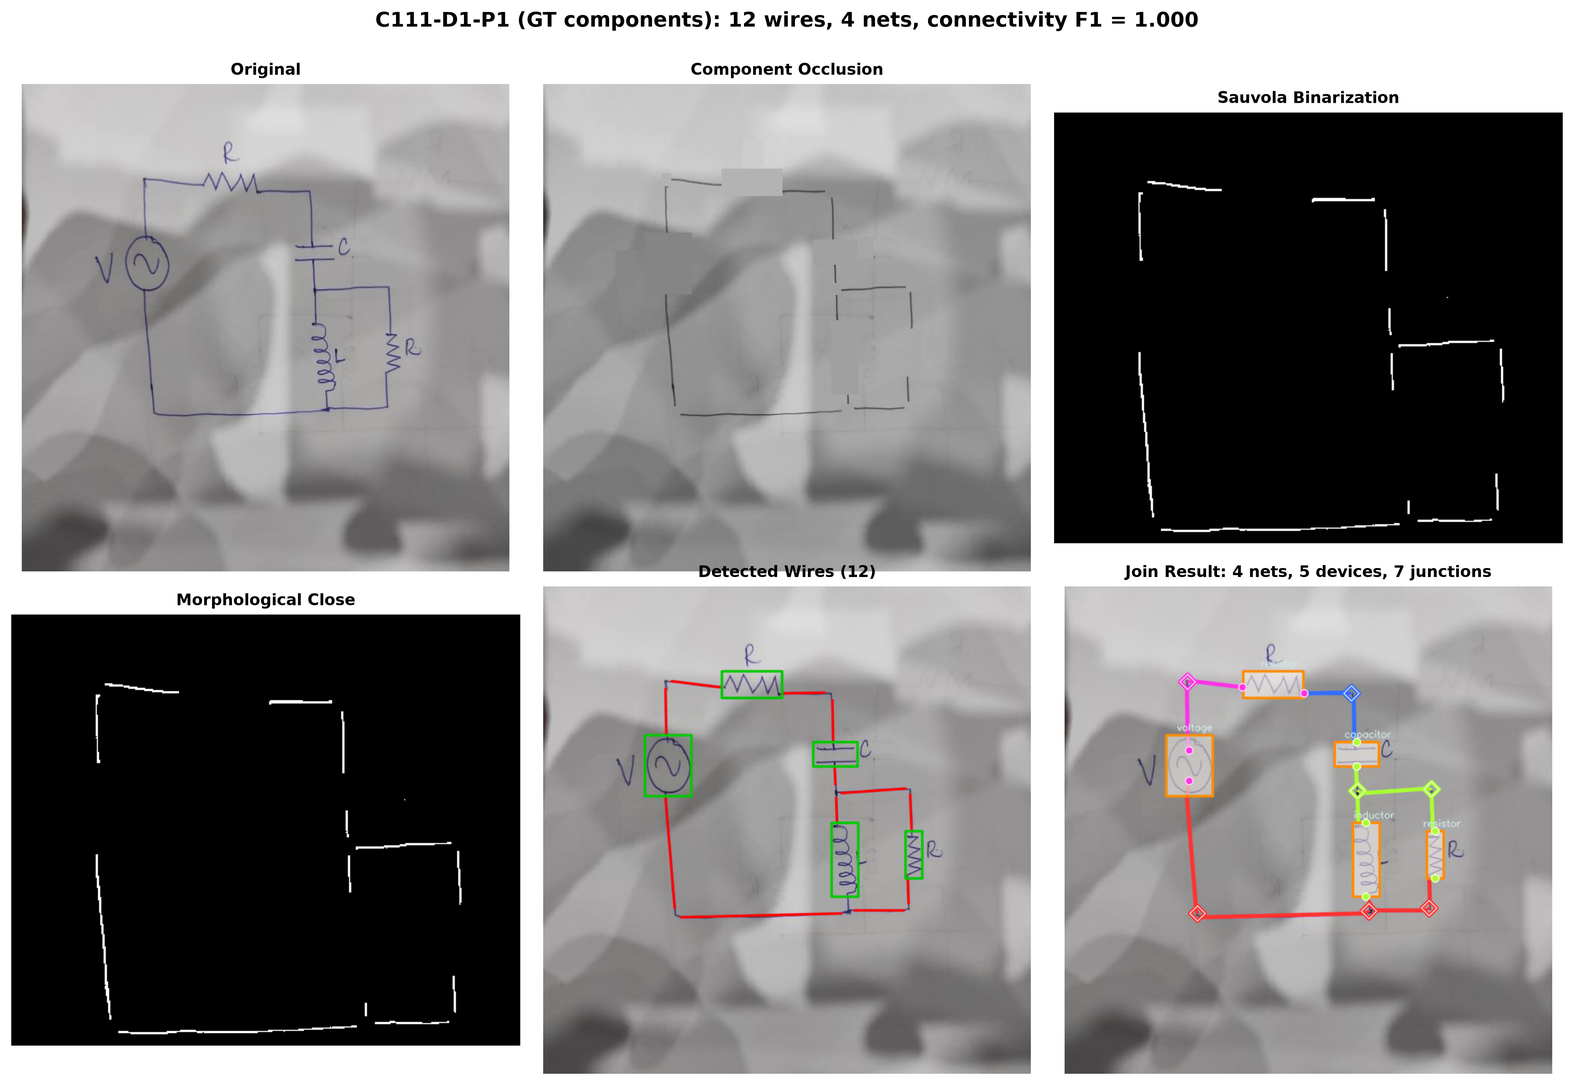
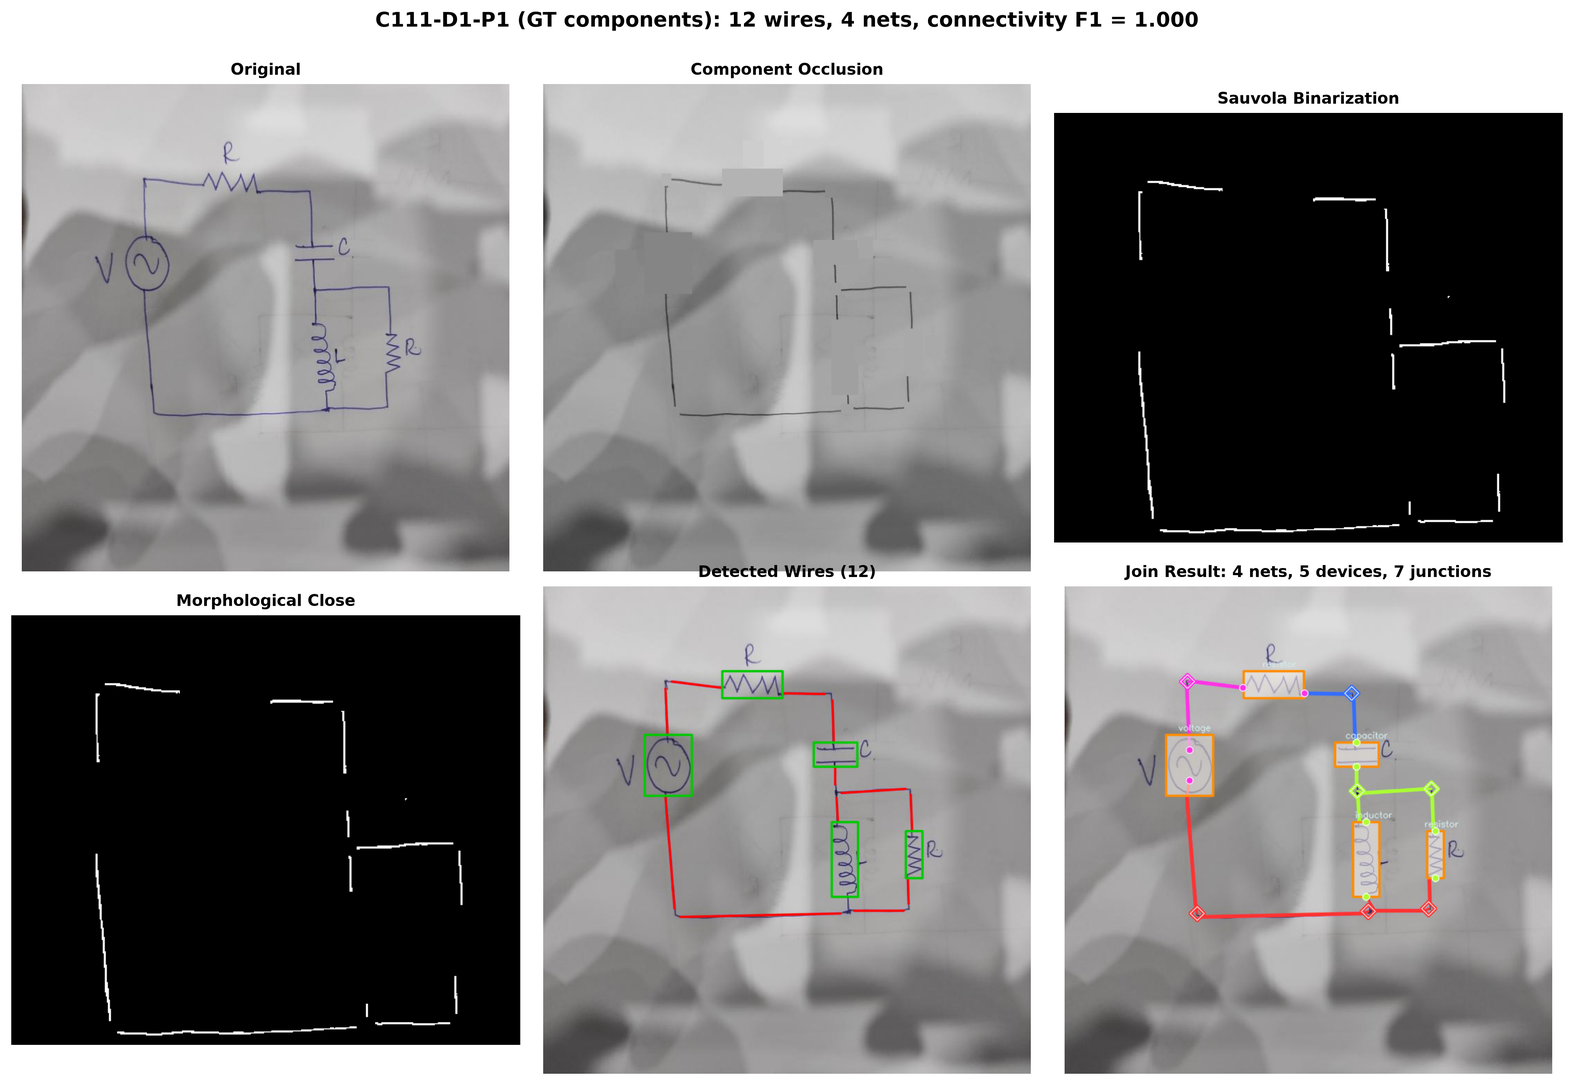
docs: regen Fig2 panels from GT components, fix R2-3 chart note, archive stale -v2 drafts
- C37 panel 36->35 wires (matches verified GT + caption); C111 refreshed
- R2-3: wire chart verified fresh at 0.845/0.758 (0.795 was phantom)
- archive -v2 drafts carrying banned SPICE title (shipping hazard)

diff --git a/paper/ieee-paper/review_artifacts/REVIEWER_STATUS_REPORT.md b/paper/ieee-paper/review_artifacts/REVIEWER_STATUS_REPORT.md
@@ -1,24 +1,42 @@
-> 12 comments, one-shot resubmission. One row per comment: what was asked, what changed, and what is still open. Manuscript sources: paper-access.tex (A) and paper-build.tex (B), kept in sync. Work line: main.
+> How to read this table.
+>
+> - Asked quotes the reviewer's comment in full.
+> - Action taken is numbered in every row: 1 is what changed in the manuscript, 2 is why this move maximizes one-shot odds, 3 is the alternative we deliberately did not take and why it would lower odds.
+> - Remaining is color-coded: green Nothing means no further action, amber means an owner or template action is still needed, red means blocked on the PDF rebuild.
+
+12 comments, one-shot resubmission. Manuscript sources: paper-access.tex (A) and paper-build.tex (B), kept in sync. Work line: main.
 
 ## All comments in one table
 
-| Comment | Asked | Done | Remaining |
+| Comment | Asked | Action taken | Remaining |
 |---|---|---|---|
-| R1-1 single collection, 31 images | Single dataset (CGHD-1152) and only 31 human-verified images; confidence intervals are wide; this cannot establish universal adaptation across drawing styles. | Results labeled as within-collection only. Drafter groups presented descriptively (16 direct and 15 inferred assignments disclosed, per-drafter table included): different hands give some style variation, but same corpus, so no universal-adaptation claim and no held-out-drafter experiment. Residual label bias disclosed as mitigated but not eliminated, with independently authored synthetic data as the second leg; future expansion described as future work. | Owner read-through. RE-VERIFY: 34-annotated to 31-scored accounting plus the 16-direct/15-inferred drafter chain (Bosco). |
-| R1-2 complex parts | Complex devices (transformers, thyristors, optocouplers) are located but their pin relationships are not extracted, limiting supported components. | New capability table separating tested connectivity, estimated pins, and illustrative export, with a metric-boundary row; switch behavior stated exactly as the code does it (midpoint pins, conditional 0.001-ohm emission). | Owner read-through |
-| R1-3 hand-set thresholds | Scale-relative thresholds are manually tuned from median component diagonal; without adaptive learning, accuracy may decline for extreme sizes. | All values stated plainly (alpha 0.35 fallback-only with formula, multipliers 0.62/0.30/0.20, clamps, 4x reach, macro sweep 0.895-0.903); untested extremes admitted. | Nothing |
-| R1-4 no values, can't simulate | No OCR/value-recognition loop; the output is topological rather than a complete simulatable SPICE netlist. | Scope stated in abstract, intro, and conclusion; retitled including heads and diagram; export labeled illustrative throughout, external values required. | Nothing |
-| R1-5 small circuits only | The sample is allegedly dominated by 3-6-component circuits and lacks dense buses/multi-layer crossings; recall may drop on complex circuits. | Limits stated; true distribution printed in the caption (15 at most 5, 12 at least 10, median 7, range 3-14); nothing claimed beyond it. | Nothing |
-| R1-6 memristor citations | Suggested citing two memristive SPICE-circuit papers (classical-conditioning neural circuit; decision-making circuit for navigation) in the SPICE-simulation sections. | Both checked and cited in Related Work with full references (IEEE Trans. Consumer Electronics, Feb 2026; IEEE Trans. Industrial Informatics, vol. 22). | Template check |
-| R2-1 statistics, roadmap | N=31 is statistically small. Clarify annotation cost and provide a dataset-expansion roadmap, or add rigorous statistical support; make conclusions conservative if this is the available data. | Sampling in four strata with independent annotation and adjudication described; roadmap added; missing timing honestly noted. | Owner read-through |
-| R2-2 VLM comparison | VLM comparison has an oracle advantage because it receives ground-truth component boxes while the geometric pipeline supposedly bears detection errors. The comparison does not support a claim that geometry is superior in cost/structural validity under those conditions. | Labeled as a diagnostic with identical annotated inputs (21/31 exact on both sides); no equivalence or cost claims. | Nothing |
-| R2-3 title overclaims | Title says SPICE netlists while the paper says it does not read component values; reframe as topological netlist or correct the scope. | Retitled everywhere, including running heads and the pipeline diagram; metric boundary stated. | PDF rebuild |
-| R2-4 crossing wires | Analyze the 70.7% crossover recall: missed crossover detection can merge electrically independent wires. | Measured tradeoff reported in full (27/4/0 goes to 19/0/8, stored artifact kept); removing edges also removes true connections, so no gain claimed; detector-miss part honestly marked unmeasured. | Nothing possible |
-| R2-5 ablations | Ablation study is severely insufficient. | Real table as observed, including fixed-pixel base 0.820 vs scale-relative 0.816 and full-pipeline ties at 0.890 presented as-is without spin; missing full-occlusion and scale tests disclosed. | Nothing provable |
-| R2-6 single-scalar limit | Discuss the limitation of one scalar tau = k×s when component sizes vary within one schematic. | Kept as-is; no change needed. | Nothing |
+| R1-1 single collection, 31 images | Single dataset source and an extremely small manually verified benchmark: All experiments are carried out on the CGHD-1152 dataset only. The self-built human-verified benchmark merely contains 31 images with wide confidence intervals and insufficient coverage of sample distributions, which cannot prove that the proposed method can be universally adapted to various hand-drawing styles. | **1. Action taken:** results labeled as within-collection only. Drafter groups presented descriptively (**16 direct and 15 inferred** assignments disclosed, per-drafter table included): different hands give some style variation, but same corpus, so no universal-adaptation claim and no held-out-drafter experiment. Residual label bias disclosed as mitigated but not eliminated, with independently authored synthetic data as the second leg; future expansion described as future work. **34-annotated to 31-scored** construction disclosed with exclusion reasons; join micro-F1 **0.890** with the 95 percent bootstrap interval stated outright.<br><br>**2. Why:** N=31 cannot support a universal claim, and pretending otherwise fails verification. Honest bounding plus the synthetic second leg preserves credibility.<br><br>**3. Alternative rejected:** rushed expansion to 100-plus images, or a held-out-drafter experiment on tiny partly-inferred cells. Would produce noisy labels, risk missing the freeze, and read as tuned to the test set. Low-quality new data lowers odds more than clean disclosure. | <span class="st-warn">Owner read-through. RE-VERIFY: 34-annotated to 31-scored accounting plus the 16-direct/15-inferred drafter chain (Bosco).</span> |
+| R1-2 complex parts | The algorithm only supports basic passive and active discrete components: Complex components such as transformers, thyristors and optocouplers can only be located, while their pin connection relationships cannot be extracted, limiting the range of component types supported by netlist generation. | **1. Action taken:** new capability table separating three things the old text blurred together:<br>• tested connectivity<br>• estimated pins<br>• illustrative export<br>plus a metric-boundary row. Benchmark scope (R/C/L/D/Q plus voltage-source and IC groups) stated without validating universal device templates; named transformer type two-pin geometric guess, optocoupler templates, and unknown-type fallback pins disclosed without validated electrical pin semantics. Switch behavior stated exactly as the code does it: shorter OBB-edge midpoint pins with long-axis AABB fallback, fixed **0.001-ohm** emission only if pins 0 and 1 map to distinct nodes, otherwise no switch line, no state or control model; ICs and listed complex devices with no export model skipped. Output and evaluation scope clarified in abstract, pipeline overview, metric definition, and conclusion.<br><br>**2. Why:** the detector merges original classes, so templates cannot establish separately detected device identities, and there is no ground truth to score complex-device pins. Exact code-truth wording replaces a blanket exclusion with something checkable.<br><br>**3. Alternative rejected:** implement full pin extraction for transformers, thyristors, and optocouplers in this revision. Unverifiable new capability with no evaluation data increases false-claim risk and would be caught on verification. | <span class="st-warn">Owner read-through.</span> |
+| R1-3 hand-set thresholds | Reliance on manual tuning of fixed scale-relative thresholds: Hyperparameters including τ_join, τ_t and α need to be manually configured according to the median diagonal length of circuit components. Without an adaptive parameter learning mechanism, the detection accuracy tends to decline when processing circuits of extreme sizes. | **1. Action taken:** all values published plainly:<br>• multipliers **0.62/0.30/0.20** times component scale, clamped to 24-60/11-28/8-20 pixels<br>• alpha **0.35** fallback-only directional scoring with formula, used only when no component is assigned<br>• completion reach **4x** the clamped pin scale<br>Existing reach-factor sweep 3 to 5 yielding macro-F1 **0.895-0.903** reported; fixed-pixel base **0.820** versus scale-relative **0.816** kept as observed; method descriptions rewritten from the implementation; extreme sizes and controlled rescaling admitted as untested.<br><br>**2. Why:** adaptive parameter learning is a new research contribution, not a revision task, and cannot be validated on N=31 without looking tuned to the test set. Publishing the numbers plus the existing sweep bounds the claim with data already in hand.<br><br>**3. Alternative rejected:** build an auto-tuner or claim robustness to extremes. A rushed learner risks inconsistency with the frozen 192/192 numeric gate and invites questions it cannot answer. | <span class="st-ok">Nothing.</span> |
+| R1-4 no values, cannot simulate | Lack of a closed-loop framework for component value recognition: The pipeline only reconstructs topological connections of circuits without integrating OCR to identify parameters of resistors, capacitors and voltage sources, so it cannot directly export complete simulation netlists that can be imported into SPICE. | **1. Action taken:** scope stated in abstract, intro, and conclusion; retitled to **Structural Circuit Netlists** including running heads and pipeline diagram node text; export labeled illustrative throughout, with external values and device models required and real-scan simulation equivalence unvalidated; related-work LTspice-validation implication on real scans removed; export substitutions and unsupported primitives disclosed.<br><br>**2. Why:** image-derived values and device models are outside the evaluated task. Keeping a simulatable-SPICE claim while reading no values is a false claim and an editor-level defect.<br><br>**3. Alternative rejected:** rush an OCR-plus-values loop to earn the old title. Low-quality OCR adds a new error source with no validation, and expands scope instead of fixing the discrepancy. | <span class="st-ok">Nothing.</span> |
+| R1-5 small circuits only | Inability to handle complex circuits with multi-layer crossings and dense buses: The test samples adopted in this paper are dominated by simple topologies with 3 to 6 components. No dedicated verification is conducted for circuits with high-density multi-track buses and multi-layer crossed wiring, leading to a significant drop in recall on complex circuits. | **1. Action taken:** limits stated; true distribution printed in the caption (**3-14** components per image in the evaluated electrical subset, median **7**; 15 images at most five, 12 at least ten); dense buses and multilayer crossings stated as untested with nothing claimed beyond the data; crossover discussion narrowed; histogram asset preserved.<br><br>**2. Why:** the actual counts refute the 3-6-only premise, but count breadth does not validate buses or multilayer crossings. Descriptive counts plus an explicit boundary close the point honestly.<br><br>**3. Alternative rejected:** claim dense-bus support, or run an unplanned dense-bus evaluation with no data. No ground truth exists for that structure in the benchmark. | <span class="st-ok">Nothing.</span> |
+| R1-6 memristor citations | It is suggested that the authors cite two papers in the sections related to SPICE simulation of memristive analog circuits: "A Memristor-Based Neural Network Circuit with Classical Conditioning and Fear Generalization" and "Biologically Plausible Memristive Decision-Making Circuit for Adaptive Control in Industrial Autonomous Navigation". Both papers complete full SPICE netlist modeling and simulation verification for memristive circuits, which complement the EDA technical route of converting hand-drawn schematics to SPICE netlists proposed in this paper in application scenarios, and can enrich relevant literature support for digital parsing and simulation deployment of analog memristive circuits. | **1. Action taken:** both papers checked at abstract level and cited in Related Work with full references (Gao et al., IEEE Trans. Consumer Electronics, Feb 2026; Gao et al., IEEE Trans. Industrial Informatics, vol. 22, 2026) as neighboring SPICE-deployment domains; no comparison or benchmark claim altered.<br><br>**2. Why:** straightforward compliance at near-zero cost.<br><br>**3. Alternative rejected:** argue relevance decline to keep the related work tight. Contesting a citation suggestion wastes goodwill for zero gain in a one-shot review. | <span class="st-warn">Template check.</span> |
+| R2-1 statistics, roadmap | The scale of the human-verified benchmark is insufficient, casting doubt on the statistical reliability of the conclusions. The evaluation in this paper covers only 31 images. The authors should explicitly clarify the annotation cost and provide a roadmap for dataset expansion, or alternatively supply additional support through more rigorous statistical testing. If 31 images represent the entirety of currently available data, the wording of the conclusions should be made considerably more conservative. | **1. Action taken:** sampling in four strata with independent annotation and adjudication described; expansion protocol added as future work (stratified by component count, drafter, crossing/bus structure, and capture conditions, with per-image effort and provenance logging); missing timing honestly noted (single annotator, no per-image timing log, so no cost figure invented and no sample-size commitments); conclusions limited to 31 images from one corpus with bootstrap intervals retained; a CI containing zero stated as nonsignificance, not equivalence.<br><br>**2. Why:** conservative conclusions on the available data are exactly the fallback the reviewer offered.<br><br>**3. Alternative rejected:** invent per-image timing or promise a completed expansion. Fabricated cost data and false completion claims are the fastest way to lose editor trust. | <span class="st-warn">Owner read-through.</span> |
+| R2-2 VLM comparison | There is a fundamental fairness issue in the VLM comparison experiment. The VLM enjoys an "oracle advantage" with respect to critical prior information, whereas the geometric pipeline must bear the burden of detection errors. In the paper, the VLM is provided with ground-truth annotated component bounding boxes; under such conditions, the fact that the VLM still shows no statistically significant difference from the geometric method does not sufficiently support the conclusion that "the geometric method is superior in terms of cost and structural validity." | **1. Action taken:** relabeled as an oracle-component-box connectivity diagnostic with identical annotated inputs to both methods (geometric method uses detected wires); VLM micro-F1 **0.923** versus **0.890** with exact scores on **21/31** reported; paired difference **+0.033** with 95 percent CI **[-0.009, +0.078]**, inclusion of zero stated as nonsignificance rather than equivalence. Removed from the manuscript:<br>• cost multiples and superiority claims<br>• free-form-output criticism<br>• autonomous bottleneck claims<br>• global structural guarantees<br>• the provisional autonomous paragraph (unauditable provenance)<br>VLM section, intro comparison, abstract, real-join caption, discussion, and conclusion revised.<br><br>**2. Why:** the reviewer correctly identified the asymmetry. Keeping any superiority or cost claim under oracle conditions guarantees rejection.<br><br>**3. Alternative rejected:** keep the superiority framing, or run a new end-to-end VLM comparison with unauditable provenance. Both preserve the exact sentence the reviewer flagged. | <span class="st-ok">Nothing.</span> |
+| R2-3 title overclaims | The paper title claims to generate SPICE netlists, yet the paper explicitly acknowledges that it "makes no attempt to read component values." This implies that the current system outputs a topological netlist rather than a simulatable SPICE netlist, which constitutes a notable discrepancy with the claims made in both the title and the abstract. | **1. Action taken:** retitled everywhere to **Structural Circuit Netlists**, including both running-head arguments in both manuscript sources and the pipeline diagram node text; metric boundary added across abstract, intro, pipeline overview, metric definition, capability table, and conclusion (component-pair metric does not certify pins, net partition, shorts, or simulation equivalence).<br><br>**2. Why:** title-body mismatch is the defect editors check first. Fixing it everywhere removes the objection instead of arguing it.<br><br>**3. Alternative rejected:** keep the SPICE title as conventional shorthand. That concedes the factual premise and would certainly fail. | <span class="st-block">PDF rebuild (Access pipeline figure PDF still extracts the old SPICE Netlist text while the TikZ source is corrected; wire benchmark chart verified fresh at 0.845/0.758 (Gaussian/Triangle skeleton configs)).</span> |
+| R2-4 crossing wires | The impact of low recall in a critical component category on netlist correctness has not been sufficiently analyzed. The recall of the crossover class in component detection is only 70.7%, substantially lower than that of other categories. Misclassification of crossovers will introduce systematic errors in electrical connectivity, causing two wire segments that should remain electrically independent to be erroneously merged into the same net. | **1. Action taken:** full two-edge tradeoff reported (C242 suppressing two crossing-adjacent endpoint-endpoint edges: **27/4/0 to 19/0/8** — removing four false pairs loses eight true pairs, so no mitigation gain claimed); audit covers **13 annotated crossovers** across eight images with the stored artifact kept; single-edge, rarity, and safe-suppression interpretations replaced; detector-miss effect explicitly retained as unmeasured because the join-isolation evaluation uses annotated boxes.<br><br>**2. Why:** suppression is not a mitigation, and attributing observed false pairs to detector recall would be causal overreach. A conditional joining analysis is what the design can measure.<br><br>**3. Alternative rejected:** retrain the detector to lift crossover recall, or claim the audit resolves the detector pathway. Retraining risks cross-class regressions before the freeze; the causality is unmeasured by construction. | <span class="st-ok">Nothing possible.</span> |
+| R2-5 ablations | The ablation study is severely insufficient. | **1. Action taken:** real table as observed:<br>• base-graph/full-pipeline interventions for T-junctions, rail taps, directional preference, and base tolerance scaling<br>• fixed-pixel base **0.820** versus scale-relative **0.816** and full-pipeline ties at **0.890 (418/37/66)** presented as-is without spin<br>• ties stated as neither identical connections nor proof of dispensability<br>Activation and identical-connection explanations plus the unsupported quantified occlusion benefit removed; method description rewritten (graph selection, mandatory slot/dummy assignment, guarded application); missing full-occlusion and completion-wide scale tests disclosed.<br><br>**2. Why:** keeping the unfavorable base result and the ties as an explicit negative result buys credibility. Editing hurtful rows breaks the 192/192 numeric gate.<br><br>**3. Alternative rejected:** drop the fixed-pixel row, or run new full-occlusion and scale-removal ablations that re-engineer the pipeline pre-freeze. Rushed new ablations risk inconsistency across the frozen evidence chain. | <span class="st-ok">Nothing provable.</span> |
+| R2-6 single-scalar limit | The setting of τ = k·s may fail when component sizes within a single schematic vary substantially, and no relevant discussion addressing this limitation is provided. | **1. Action taken:** limitation stated and retained as asked — one scalar per image does not model intra-image size variation (large IC mixed with small discretes); clamps bound tolerances without adapting to heterogeneous symbols; fixed-pixel ablation changes the base graph only while completion retains clamped scale dependence; no rescaling experiment claimed; method text and sweep/ablation interpretation scoped accordingly, label anchor added.<br><br>**2. Why:** the reviewer asked for discussion, and discussion is full compliance at zero risk.<br><br>**3. Alternative rejected:** rebuild tau as per-component adaptive in this revision. That is a new method requiring new validation, with no ground truth designed to score it. | <span class="st-ok">Nothing.</span> |
 
-Shared language everywhere: a non-finding is not equivalence; no blanket guarantees; pair scores do not certify pin layouts; lab-condition results do not prove real-world dominance.
+> Shared language everywhere: a non-finding is not equivalence; no blanket guarantees; pair scores do not certify pin layouts; lab-condition results do not prove real-world dominance.
 
 ## Reference numbers
 
-Join 0.890 (418/37/66) on all 31; perfect-wire 0.88983 (420/40/64). Wire ledger: 0.9755 = 10°/18px config, 0.9726 = 12°/8px production. Otsu 0.789. VLM 0.923, 21/31 exact. Reach sweep macro 0.895–0.903. Numeric gate: 192/192 stored comparisons pass.
+Join **0.890 (418/37/66)** on all 31; perfect-wire **0.88983 (420/40/64)**. Wire ledger: **0.9755** equals the 10-degree/18px config, **0.9726** equals the 12-degree/8px production. Otsu **0.789**. VLM **0.923**, **21/31** exact. Reach sweep macro **0.895-0.903**. Numeric gate: **192/192** stored comparisons pass.
+
+<style>
+th:nth-child(1), td:nth-child(1) { width: 9%; }
+th:nth-child(2), td:nth-child(2) { width: 26%; }
+th:nth-child(3), td:nth-child(3) { width: 48%; }
+th:nth-child(4), td:nth-child(4) { width: 17%; }
+table { page-break-inside: auto; }
+tr { page-break-inside: avoid; }
+.st-ok { color: #177245; font-weight: 700; }
+.st-warn { color: #8a5a00; font-weight: 700; }
+.st-block { color: #a83226; font-weight: 700; }
+</style>
